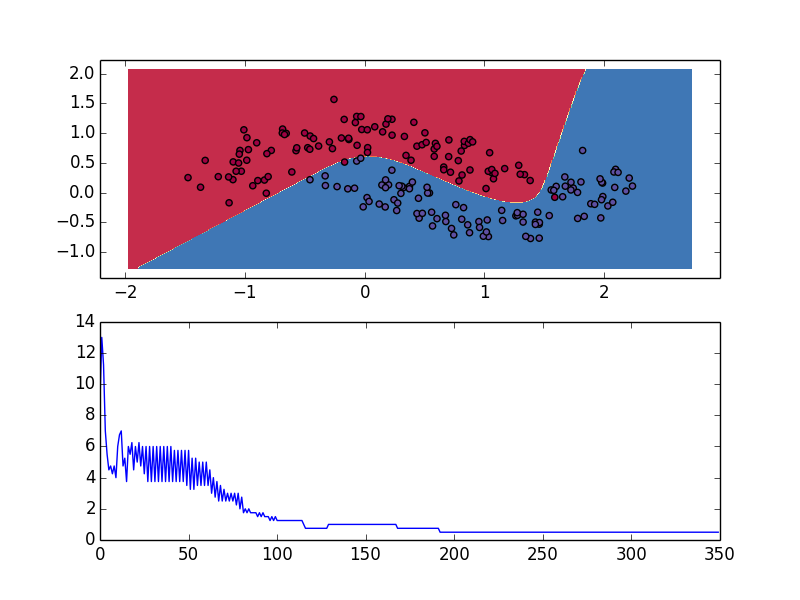
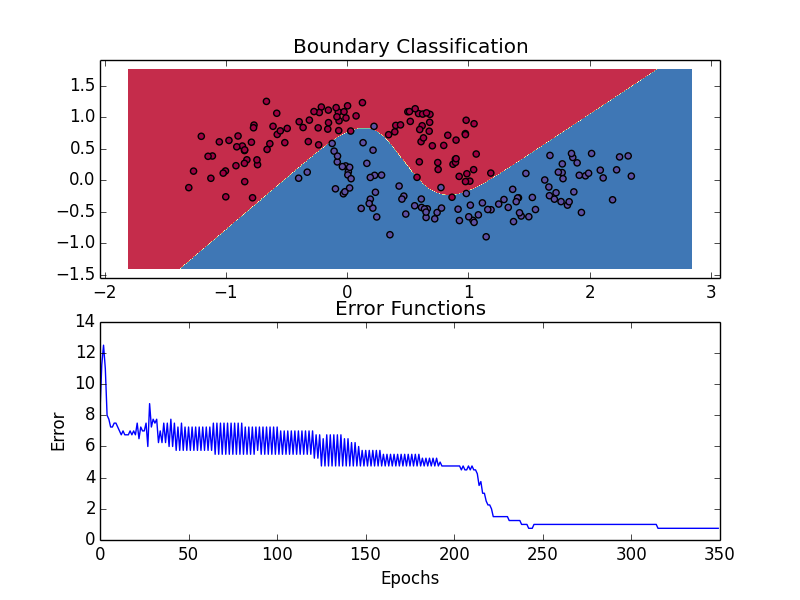
updated plot labels

diff --git a/Decision Boundary/mean_square_law.py b/Decision Boundary/mean_square_law.py
@@ -101,8 +101,12 @@ if __name__ == "__main__":
     net, lossFn = build(3)
 
     plt.subplot(211)
+    plt.title("Boundary Classification")
     plt_decision_boundary(lambda x: predict(x, net))
 
     plt.subplot(212)
+    plt.ylabel("Error")
+    plt.xlabel("Epochs")
+    plt.title("Error Functions")
     plt.plot(lossFn[:, 0], lossFn[:, 1])
     plt.show()
